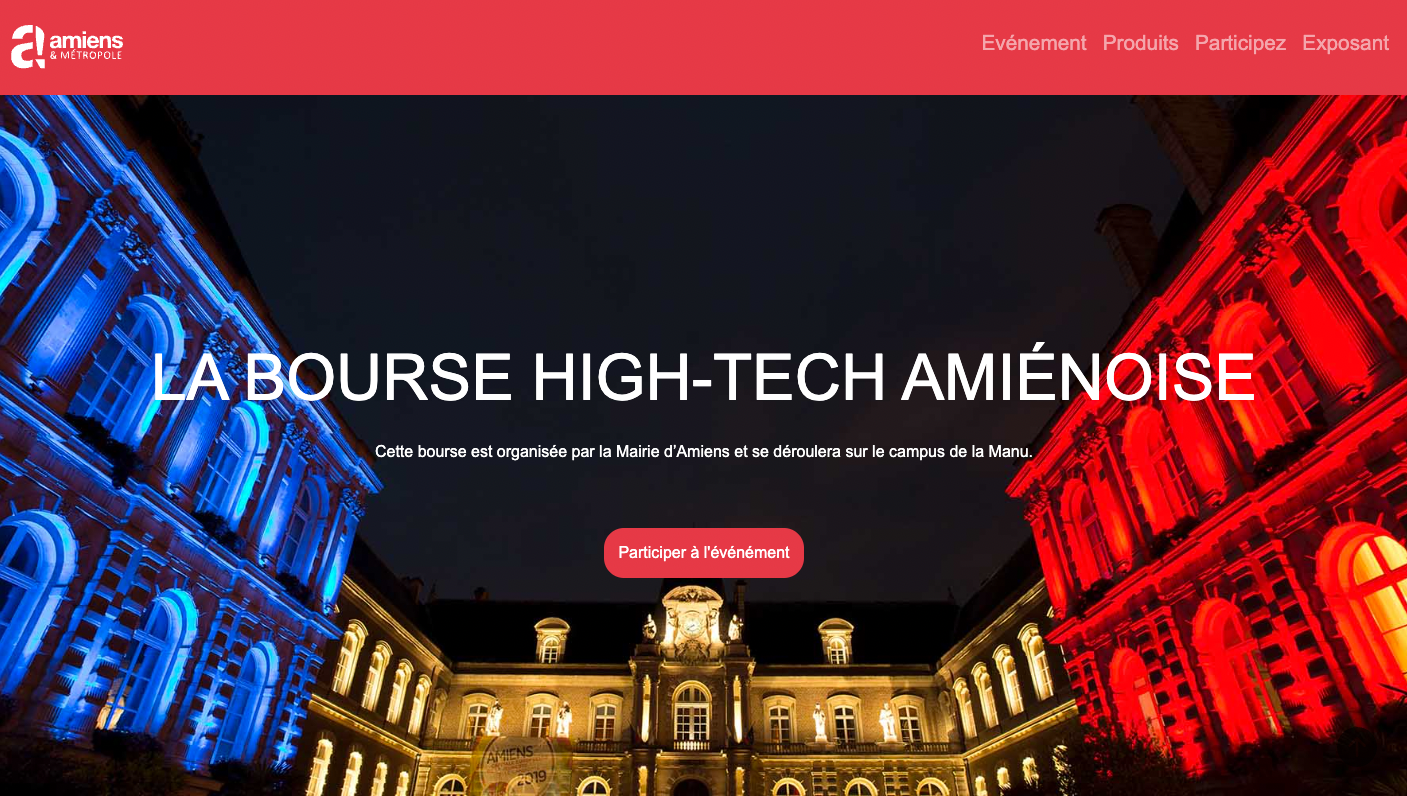
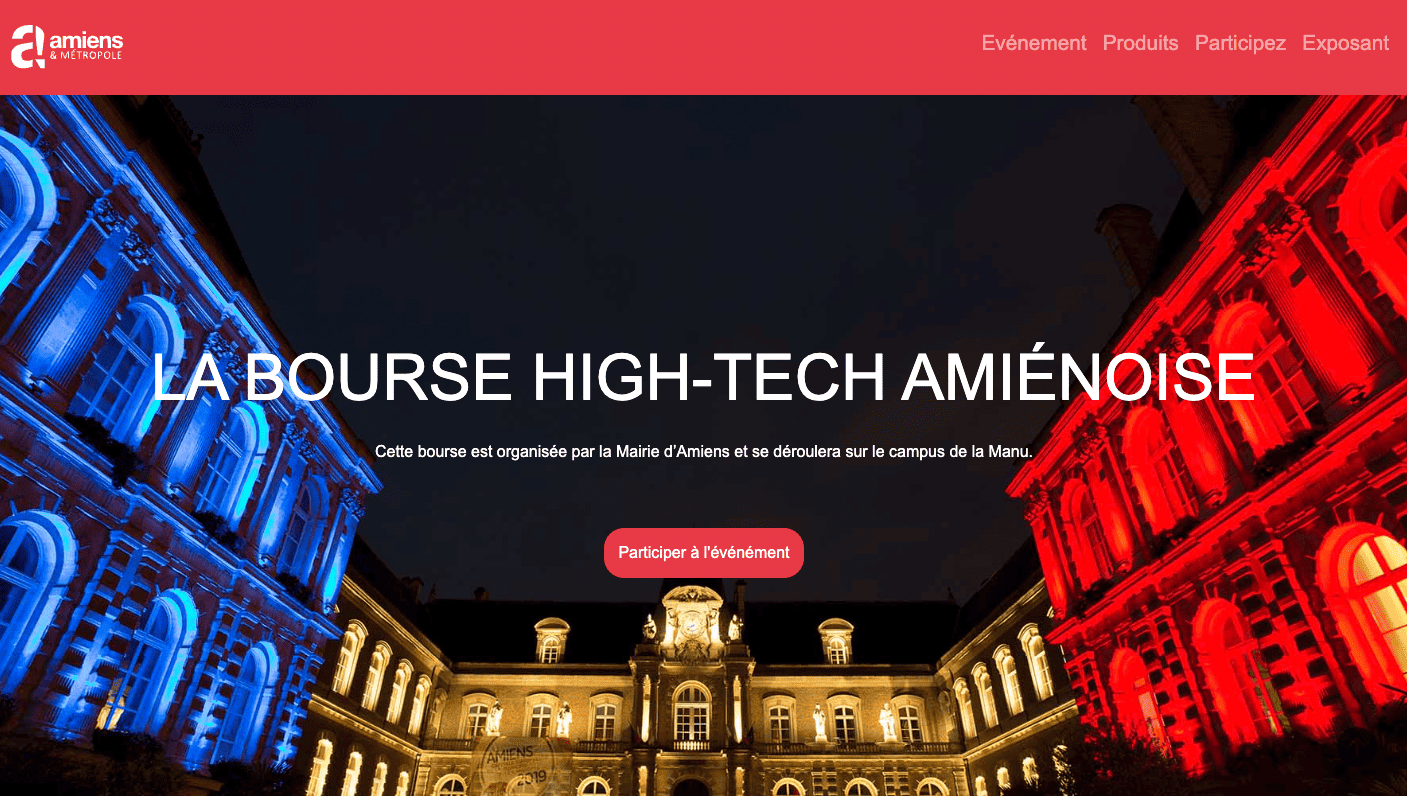
Compression images

diff --git a/public/css/style.css b/public/css/style.css
@@ -46,6 +46,15 @@ a {
     }
 }
 
+.scrollToTop {
+    height: 30px;
+    width: 30px;
+    position: fixed;
+    background-color: var(--secondEmphasis);
+    bottom: 15px;
+    right: 15px;
+}
+
 /* ------------------------------------------Font Settings----------------------------------------- */
 
 html {
@@ -882,26 +891,20 @@ button a {
     opacity: 0!important;
     animation: none!important;
     transition: 0s!important;
-  }
-  
-  .reveal-loaded [class*="reveal-"]{
-    animation: revealAnimation 1s cubic-bezier(.5, 0, 0, 1) both;
-  }
-  
-  .reveal-loaded .reveal-2 {
-    animation-delay: .1s;
-  }
-  
-  .reveal-loaded .reveal-3 {
-    animation-delay: .2s;
-  }
-  
-  .reveal-loaded .reveal-4 {
-    animation-delay: .3s;
-  }
-  
-  @media (prefers-reduced-motion: reduce) {
-    .reveal-loaded  [class*="reveal-"] {
-      animation: none!important;
-    }
-  }
+}
+
+.reveal-loaded [class*="reveal-"]{
+animation: revealAnimation 1s cubic-bezier(.5, 0, 0, 1) both;
+}
+
+.reveal-loaded .reveal-2 {
+animation-delay: .1s;
+}
+
+.reveal-loaded .reveal-3 {
+animation-delay: .2s;
+}
+
+.reveal-loaded .reveal-4 {
+animation-delay: .3s;
+}

diff --git a/index.html b/index.html
@@ -4,7 +4,7 @@
     <meta charset="UTF-8">
     <meta http-equiv="X-UA-Compatible" content="IE=edge">
     <meta name="viewport" content="width=device-width, initial-scale=1.0">
-    <link rel="shortcut icon" href="./public/assets/icons/logo.png" type="image/x-icon">
+    <link rel="shortcut icon" href="./public/assets/img/avatar.png" type="image/x-icon">
     <link rel="stylesheet" href="./public/css/style.css">
     <script defer src="./public/js/script.js"></script>
     <title>Mathieu Dacheux | Développeur web</title>
@@ -14,6 +14,7 @@
 <body>
     <div class="containerWidth">
 
+        
         <!-- HeroBanner du Portfolio -->
 
         <header>

diff --git a/public/js/script.js b/public/js/script.js
@@ -1,6 +1,6 @@
 // Apparition au défilement
 
-const threshold = .15;
+const threshold = .1;
 const options = {
   root: null,
   rootMargin: '0px',
